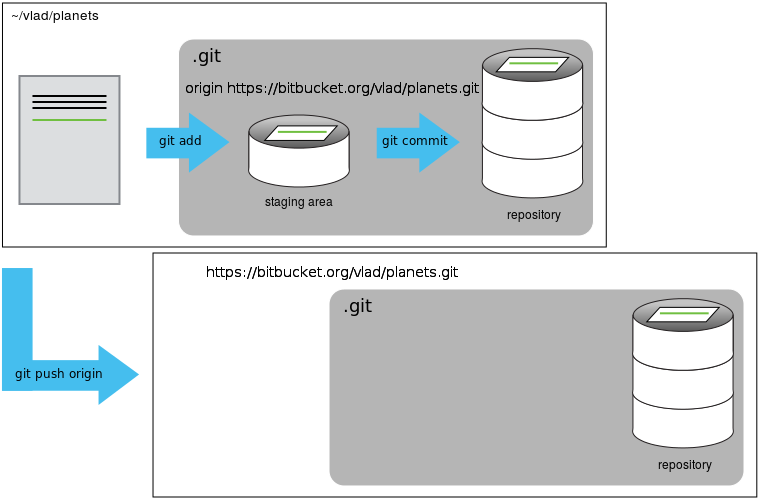
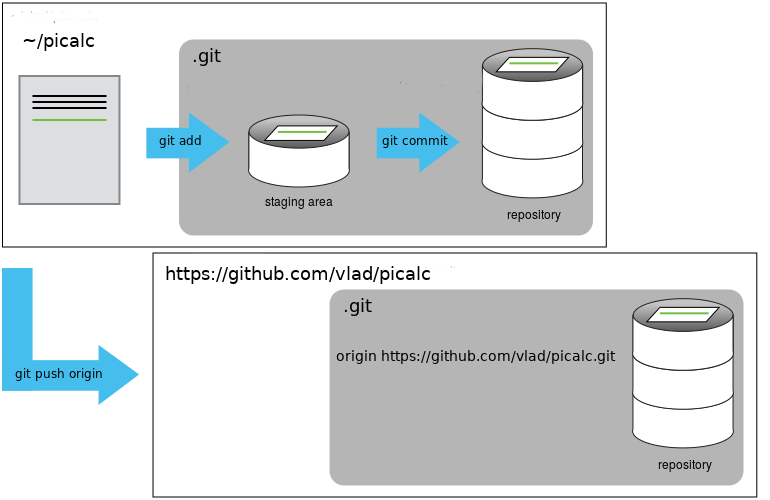
Update from bitbucket to GitHub

diff --git a/_episodes/07-remotes.md b/_episodes/07-remotes.md
@@ -24,48 +24,76 @@ on the web rather than on someone's laptop.  Most programmers use hosting
 services like [GitHub](http://github.com), [BitBucket](http://bitbucket.org) or
 [GitLab](http://gitlab.com/) to hold those master copies; we'll explore the pros and cons of this in the final section of this lesson.
 
-Let's start by sharing the changes we've made to our current project
-with the world. Create an account on
-[bitbucket.org](https://bitbucket.org). Bitbucket have an academic
-programme, which allows you to have unlimited private repositories. If
-you use an `.ac.uk` email address to sign up, you will automatically
-get this feature.
+Let's start by creating an account at GitHub. The University of Cambridge recently signed up to "GitHub Education", which
+gives some additional benefits for staff and students, but we will not be using any of those features.
+Go to [GitHub](https://github.com) and create a login, if you don't have one already. You will need to confirm your email address.
+Once you have an account, you should be able to create a new repository online. Click on the "+" sign in the top right corner.
 
-Log in to Bitbucket, then click on the menu drop-down "Repositories" and
-create a new repository called `cocktails`:
+![Creating a Repository](../fig/github-new-repo.jpg)
 
-![Creating a Repository](../fig/bitbucket-new-repo.png)
+This time, I'm calling the repository "picalc", as it will include
+some code to calculate the value of "pi". Let's make it a "Private"
+repository for now. The other options can stay as default.
 
-This effectively does the following on Bitbucket's servers:
+![Creating a Repository 2](../fig/git-new-repo-2.jpg)
+
+This effectively does the following on GitHub's servers:
 
 ~~~
-$ mkdir cocktails
-$ cd cocktails
+$ mkdir picalc
+$ cd picalc
 $ git init
 ~~~
 {: .bash}
 
-Our local repository still contains our earlier work on `margherita.md`, but the
-remote repository on bitbucket doesn't contain any files yet.
+Helpfully, GitHub tells you what to do to start a new repository. The first few lines cover what we have already done.
+You will notice some new commands `git remote` and `git push` which we will cover in this section.
 
-![New Repository](../fig/git-freshly-made-bitbucket-repo.png)
+![Creating a Repository 3](../fig/git-new-repo-3.jpg)
 
-The next step is to connect the two repositories.  We do this by making the
-bitbucket repository a [remote]({{ page.root }}/reference/#remote) for the local repository.
-
-As soon as the repository is created, bitbucket displays a page with a
-URL and some information on how to configure your local repository.
-
-![New Repository](../fig/bitbucket-new-repo-empty.png)
-
-We have an existing repository, so click on the "I have an existing
-project" link. It will give you some instructions for linking up your
-repository to the website. However, we will change the
-authentication from SSH to HTTPS, as it is easier to work with for
-now. Use a pattern like this (replacing vlad with your bitbucket username).
+Let's follow some of their suggestions and create some files to put in a new repository. Go back to your home directory and make a new folder:
 
 ~~~
-git remote add origin https://vlad@bitbucket.org/vlad/cocktails.git
+cd ~
+mkdir picalc
+cd picalc
+git init
+nano pi.py
+~~~
+{: .bash}
+
+In the file, let's put a simple code to calculate an approximate value for "pi" - NB this is not a serious method, it is very slow!
+
+~~~
+a = 2.0
+for n in range(1, 10000):
+    a = a * (n*n)/(n*n - 0.25)
+print(a)
+~~~
+
+Try it by running `python pi.py`. It should print out `3.14151411083`.
+If you want, you can also create a file called "README" with some text in it e.g. "A simple method to calculate pi."
+
+~~~
+git add pi.py README
+git commit -m "Code to calculate pi and a README"
+~~~
+
+Our local repository contains `pi.py` and `README`, but the
+remote repository on GitHub doesn't contain any files yet.
+
+![New Repository](../fig/git-freshly-made-repo.png)
+
+The next step is to connect the two repositories.  We do this by making the
+GitHub repository a [remote]({{ page.root }}/reference/#remote) for the local repository.
+
+We will change the authentication from SSH to HTTPS, as it is easier to work with for
+now. Use a pattern like this (replacing vlad with your github
+username) - this should be the same command which GitHub suggests when
+creating the repository.
+
+~~~
+git remote add origin https://vlad@github.com/vlad/picalc.git
 ~~~
 {: .bash}
 
@@ -74,13 +102,18 @@ difference should be your username instead of `vlad`.
 
 > ## HTTPS vs. SSH
 >
-> We use HTTPS here because it does not require additional configuration.  After
-> the workshop you may want to set up SSH access, which is a bit more secure, by
-> following one of the great tutorials from
+> We use HTTPS here because it does not require additional configuration.
+> You may want to set up SSH access, which is a bit more secure, and
+> does not require a password every time.
+> Follow one of the great tutorials from
 > [github](https://help.github.com/articles/generating-ssh-keys),
 > [Atlassian/BitBucket](https://confluence.atlassian.com/display/BITBUCKET/Set+up+SSH+for+Git)
 > and [GitLab](https://about.gitlab.com/2014/03/04/add-ssh-key-screencast/)
 > (this one has a screencast).
+>
+> If you are feeling confident, it can be done with the following command: `ssh-keygen`.
+> You then need to upload the file `~/.ssh/id_rsa.pub` into your "SSH and GPG settings"
+> on GitHub.
 {: .callout}
 
 We can check that the command has worked by running `git remote -v`:
@@ -91,8 +124,8 @@ $ git remote -v
 {: .bash}
 
 ~~~
-origin   https://bitbucket.org/vlad/cocktails.git (push)
-origin   https://bitbucket.org/vlad/cocktails.git (fetch)
+origin   https://vlad@github.com/vlad/picalc.git (push)
+origin   https://vlad@github.com/vlad/picalc.git (fetch)
 ~~~
 {: .output}
 
@@ -100,7 +133,7 @@ The name `origin` is a local nickname for your remote repository: we could use
 something else if we wanted to, but `origin` is the default.
 
 Once the nickname `origin` is set up, this command will push the changes from
-our local repository to the repository on bitbucket:
+our local repository to the repository on GitHub:
 
 ~~~
 $ git push -u origin master
@@ -117,7 +150,7 @@ Delta compression using up to 4 threads.
 Compressing objects: 100% (6/6), done.
 Writing objects: 100% (9/9), 821 bytes, done.
 Total 9 (delta 2), reused 0 (delta 0)
-To https://bitbucket.org/vlad/cocktails
+To https://github.com/vlad/picalc
  * [new branch]      master -> master
 Branch master set up to track remote branch master from origin.
 ~~~
@@ -158,7 +191,7 @@ $ git pull origin master
 {: .bash}
 
 ~~~
-From https://bitbucket.org/vlad/cocktails
+From https://github.com/vlad/picalc
  * branch            master     -> FETCH_HEAD
 Already up-to-date.
 ~~~
@@ -166,12 +199,13 @@ Already up-to-date.
 
 Pulling has no effect in this case because the two repositories are already
 synchronized.  If someone else had pushed some changes to the repository on
-bitbucket, though, this command would download them to our local repository.
+GitHub, though, this command would download them to our local repository.
 
-## bitbucket GUI
+## GitHub GUI
 
-Browse to your `cocktails` repository on bitbucket.
- * Try clicking on the 'Source' button on the left. You can use this to
+Browse to your `picalc` repository on GitHub.
+
+* Try clicking on the 'Source' button on the left. You can use this to
    browse all the files in your repository. By using the dropdown menu
    with the git hash (e.g. d69e7a9) you can choose which version of the
    file to view.
@@ -193,7 +227,7 @@ Browse to your `cocktails` repository on bitbucket.
 > First start by adding a remote with an invalid URL:
 >
 > ~~~
-> git remote add broken https://bitbucket.org/this/url/is/invalid
+> git remote add broken https://github.org/this/url/is/invalid
 > ~~~
 > {: .bash}
 >
@@ -208,10 +242,10 @@ Can you figure out how to fix the URL (tip: use `git remote
 > done with this exercise.
 {: .challenge}
 
-> ## bitbucket README file
+> ## GitHub README file
 >
 > In this section we learned about creating a remote repository on
-> bitbucket. The 'Overview' tab suggests you create a README.
+> GitHub. The 'Overview' tab suggests you create a README.
 > Try doing that by clicking on the "Create a README" button. What
 > effect will this have on your repository?
 {: .challenge}

diff --git a/_episodes/03-create.md b/_episodes/03-create.md
@@ -12,16 +12,16 @@ keypoints:
 
 Once Git is configured, we can start using it.
 Let's create a directory for our work and then move into that directory.
-For today, we'll be working on a Python program which can calculate "pi".
-Let's call the project "picalc".
+For today, we'll be working on a simple Python program.
+Let's call the project "myproject".
 
 ~~~
-$ mkdir picalc
-$ cd picalc
+$ mkdir myproject
+$ cd myproject
 ~~~
 {: .bash}
 
-Then we tell Git to make `picalc` a [repository]({{ page.root }}/reference/#repository)
+Then we tell Git to make `myproject` a [repository]({{ page.root }}/reference/#repository)
 — a place where Git can store versions of our files:
 
 ~~~
@@ -38,7 +38,7 @@ $ ls
 {: .bash}
 
 But if we add the `-a` flag to show everything,
-we can see that Git has created a hidden directory within `picalc` called `.git`:
+we can see that Git has created a hidden directory within `myproject` called `.git`:
 
 ~~~
 $ ls -a
@@ -72,22 +72,22 @@ nothing to commit (create/copy files and use "git add" to track)
 
 > ## Places to Create Git Repositories
 >
-> Dracula starts a new project, `sphere_calc`, related to his `picalc` project.
+> Dracula starts a new project, `sphere_calc`, related to his `myproject` project.
 > Despite his colleague's concerns, he enters the following sequence of commands to
 > create one Git repository inside another:
 >
 > ~~~
 > $ cd               # return to home directory
-> $ mkdir picalc  # make a new directory picalc
-> $ cd picalc     # go into picalc
-> $ git init         # make the picalc directory a Git repository
-> $ mkdir sphere_calc    # make a sub-directory picalc/sphere_calc
-> $ cd sphere_calc       # go into picalc/sphere_calc
+> $ mkdir myproject  # make a new directory myproject
+> $ cd myproject     # go into myproject
+> $ git init         # make the myproject directory a Git repository
+> $ mkdir sphere_calc    # make a sub-directory myproject/sphere_calc
+> $ cd sphere_calc       # go into myproject/sphere_calc
 > $ git init         # make the sphere_calc sub-directory a Git repository
 > ~~~
 > {: .bash}
 >
-> Why is it a bad idea to do this? (Notice here that the `picalc` project is now also tracking the entire `sphere_calc` repository.)
+> Why is it a bad idea to do this? (Notice here that the `myproject` project is now also tracking the entire `sphere_calc` repository.)
 > How can Dracula undo his last `git init`?
 >
 > > ## Solution
@@ -114,11 +114,11 @@ nothing to commit (create/copy files and use "git add" to track)
 > >
 > > ~~~
 > > $ touch ball.py ovoid.py       # create some sphere_calc files
-> > $ cd ..                        # return to picalc directory
+> > $ cd ..                        # return to myproject directory
 > > $ ls sphere_calc               # list contents of the sphere_calc directory
-> > $ git add sphere_calc/*        # add all contents of picalc/sphere_calc
+> > $ git add sphere_calc/*        # add all contents of myproject/sphere_calc
 > > $ git status                   # show sphere_calc files in staging area
-> > $ git commit -m "add sphere_calc files"    # commit picalc/sphere_calc to picalc Git repository
+> > $ git commit -m "add sphere_calc files"    # commit myproject/sphere_calc to myproject Git repository
 > > ~~~
 > > {: .bash}
 > >

diff --git a/_episodes/04-changes.md b/_episodes/04-changes.md
@@ -628,6 +628,7 @@ repository (`git commit`):
 > > ## Solution
 > >
 > > First we make our changes to the `loop.py` and `example.py` files:
+> >
 > > ~~~
 > > $ nano loop.py
 > > $ cat loop.py
@@ -661,6 +662,7 @@ repository (`git commit`):
 > > ~~~
 > > {: .bash}
 > > Or with multiple commands:
+> >
 > > ~~~
 > > $ git add loop.py
 > > $ git add example.py
